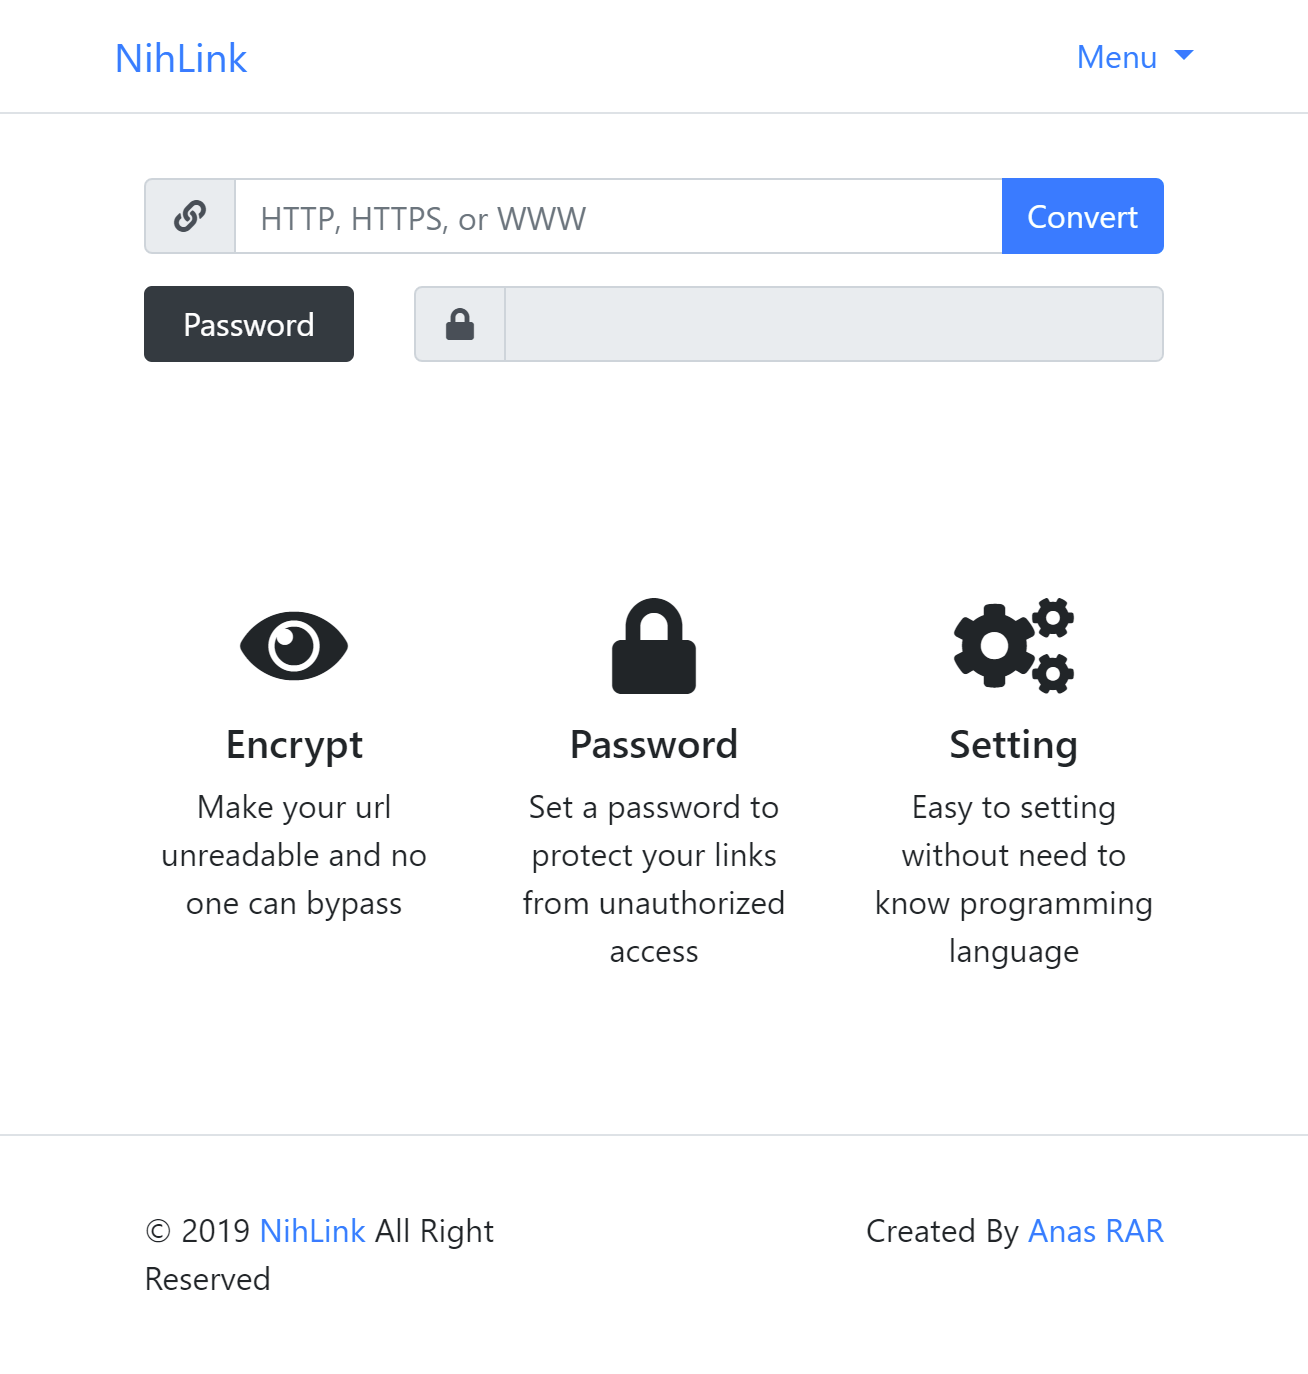
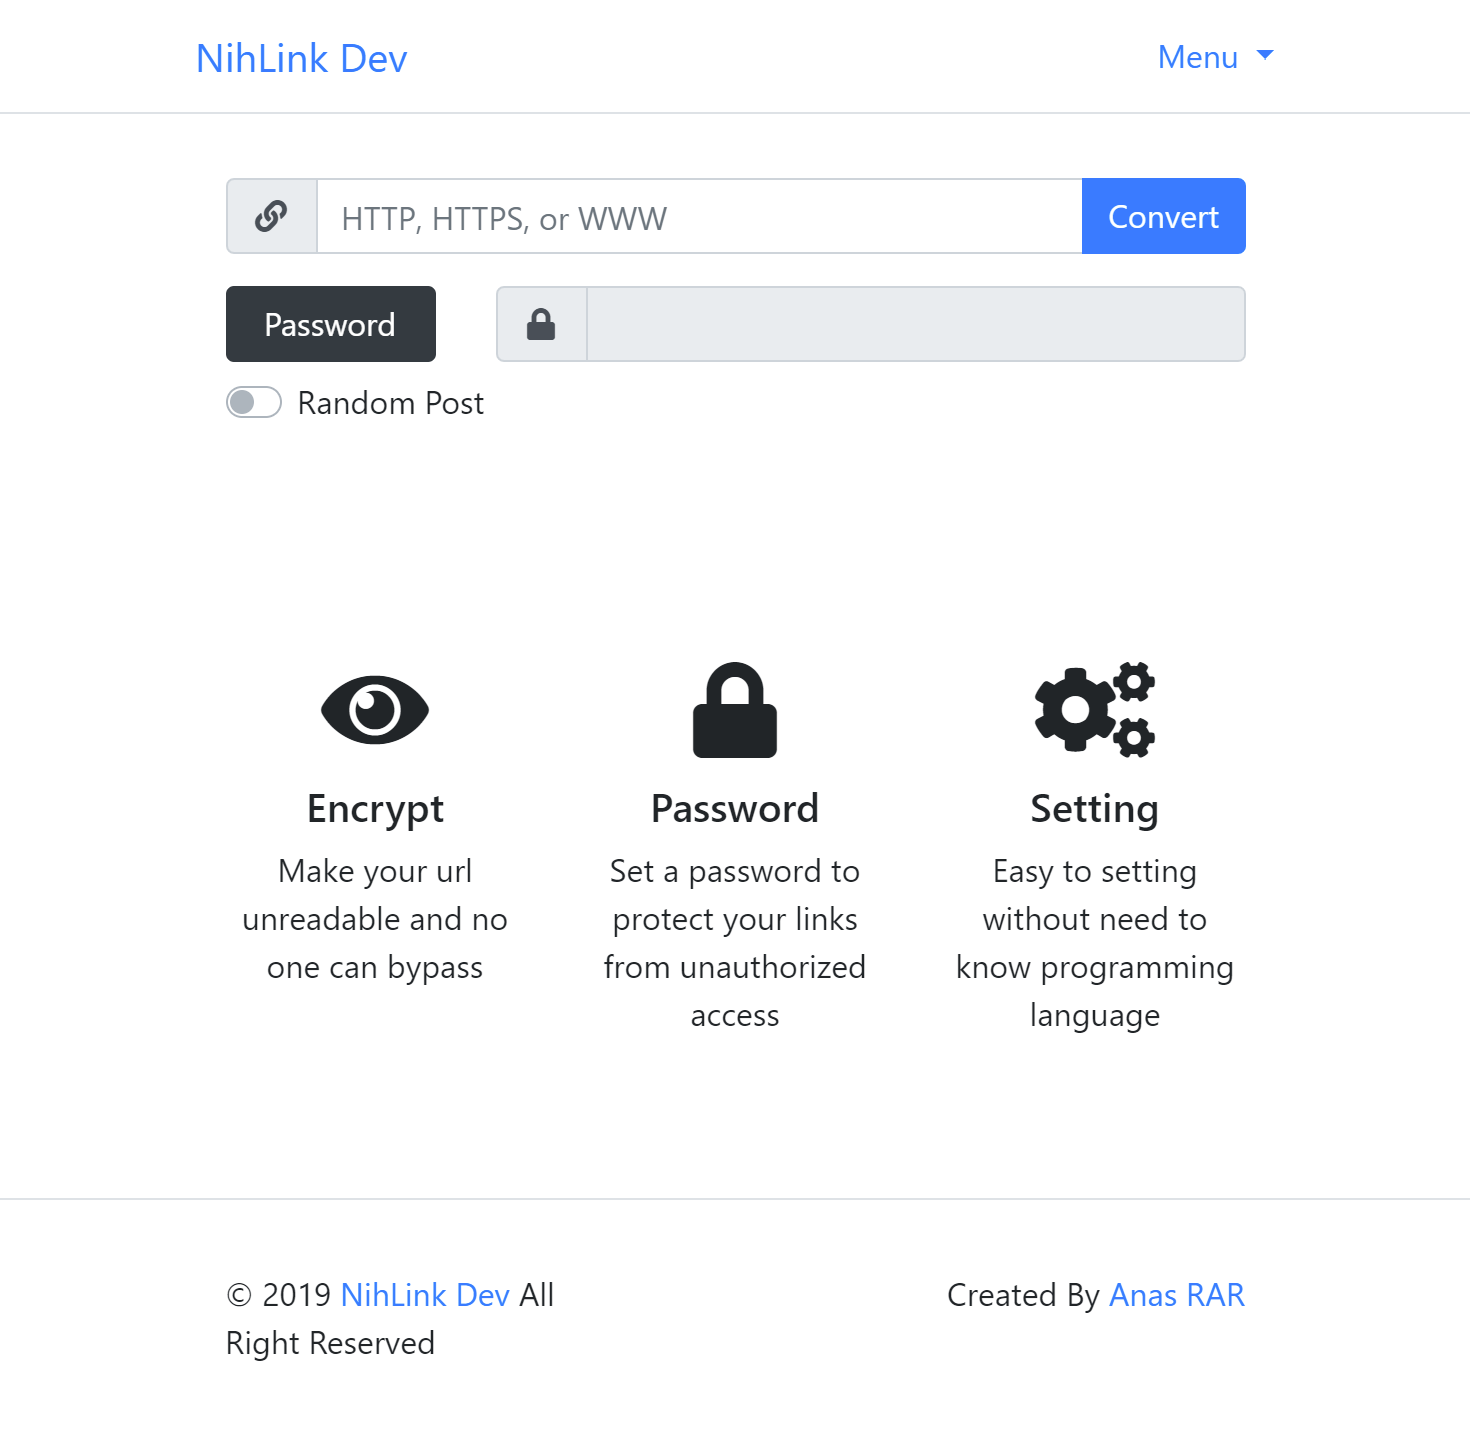
OK

diff --git a/README.md b/README.md
@@ -1,10 +1,10 @@
 # NihLink Safelink Template Blogger
 
-![GitHub](https://img.shields.io/github/license/anasrar/NihLink-Safelink-Template-Blogger.svg) ![GitHub repo size](https://img.shields.io/github/repo-size/anasrar/NihLink-Safelink-Template-Blogger.svg)
+![GitHub release](https://img.shields.io/github/release/anasrar/NihLink-Safelink-Template-Blogger.svg) ![GitHub](https://img.shields.io/github/license/anasrar/NihLink-Safelink-Template-Blogger.svg) ![GitHub repo size](https://img.shields.io/github/repo-size/anasrar/NihLink-Safelink-Template-Blogger.svg)
 
 Simple Safelink Template Blogger
 
-[ [DEMO](https://nihlink.blogspot.com) ]
+[ [DEMO](https://nihlink.blogspot.com) ] [ [RULES](RULES.md) ]
 
 ![DEMO](screenshot.png)
 
@@ -14,7 +14,7 @@ Simple Safelink Template Blogger
 - Unlock With Password
 - Sticky Ads
 
-# How To Make Safelink Page
+# How To Make Safelink Page / Article
 
 On **HTML** Mode
 
@@ -60,6 +60,15 @@ Layout > page-setting > setting
     });
 </script>
 ```
+# Changelog
+
+## 2.1.1 - 05/04/2019
+### Update
+- Add Random Post
+
+## 2.0.1 - 04/04/2019
+### Update
+- Add Password System
 
 # Built With
 

diff --git a/RULES.md b/RULES.md
@@ -1,0 +1,10 @@
+# RULES
+
+## Do Not
+
+- Do Not Remove My Footer Link
+- Do Not Sell, Because It's Free
+
+## Do
+
+- Modify Without Remove My Footer Link
